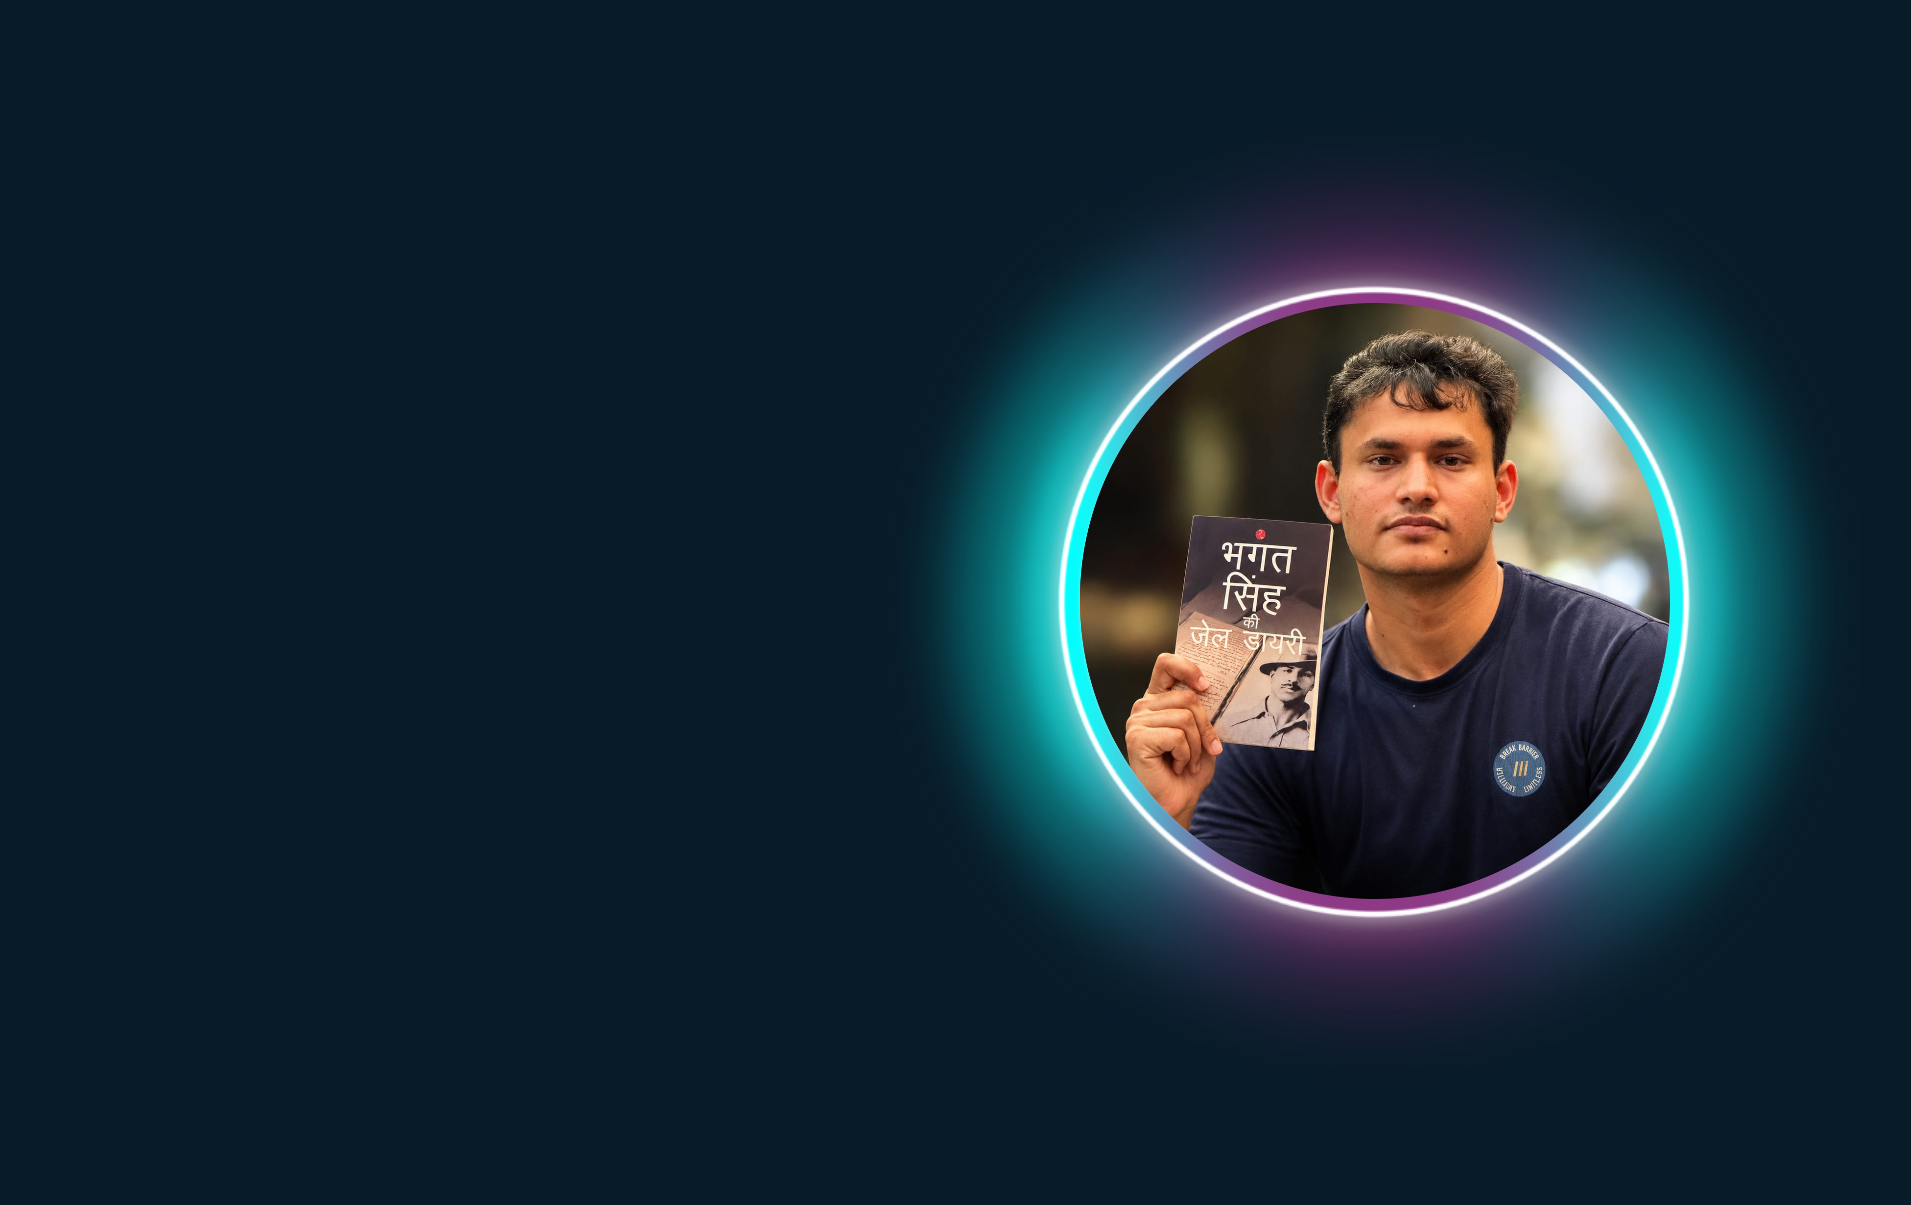
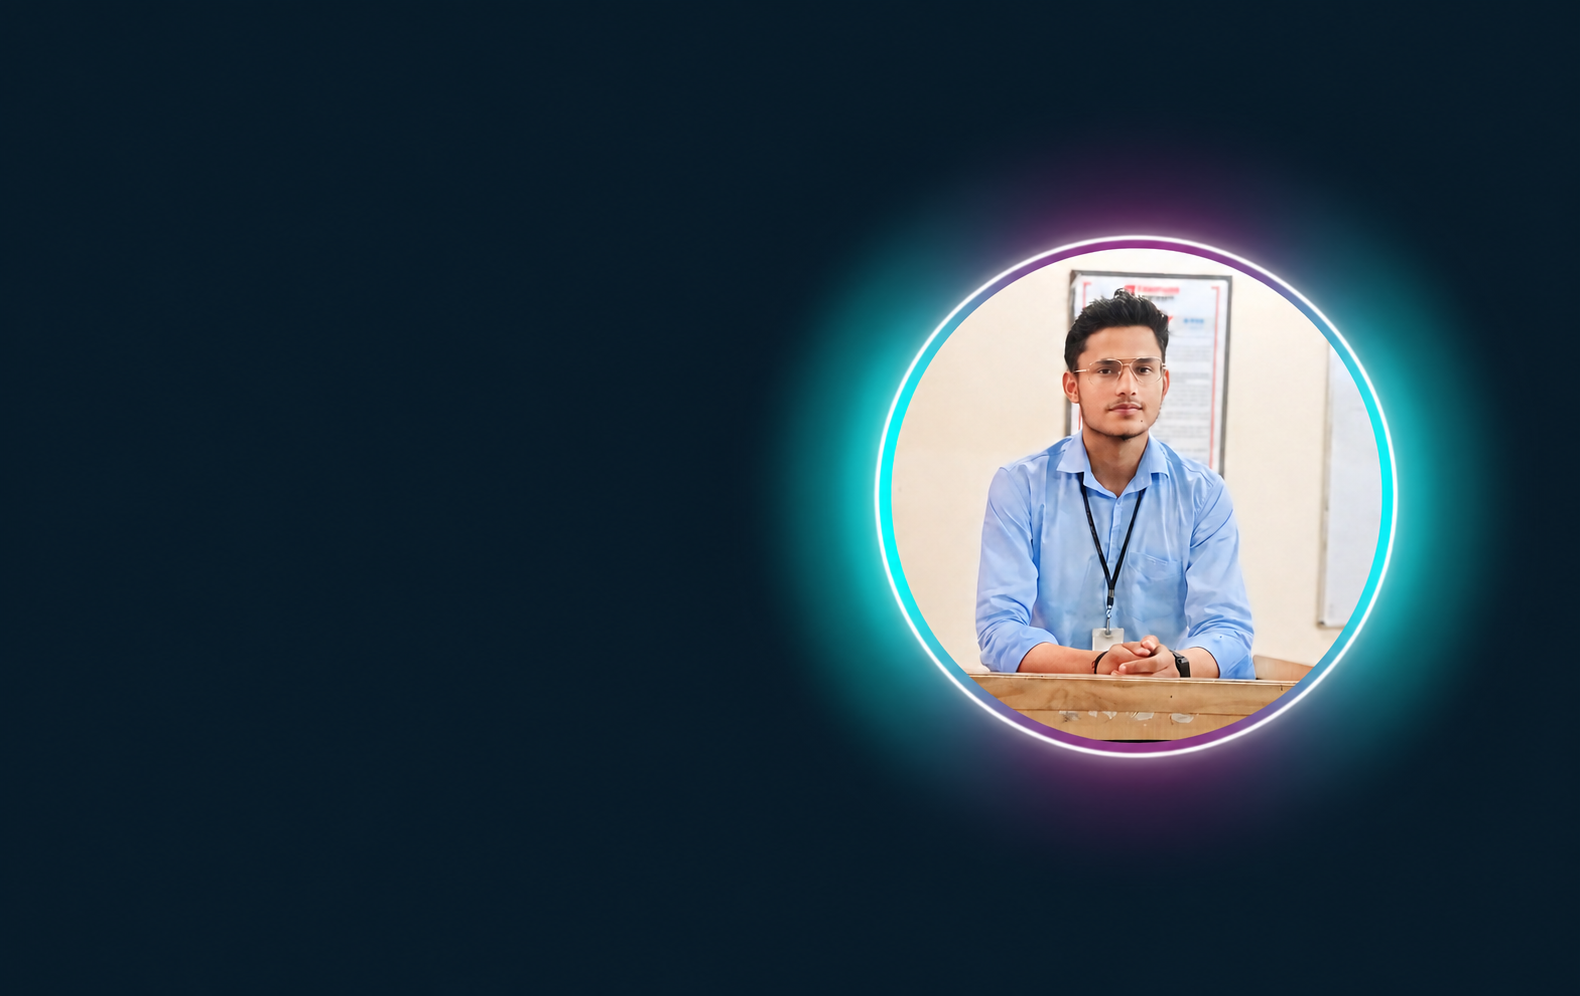
updated bg image

Changed region(s): [[0.5272, 0.2179, 0.8994, 0.747]]

diff --git a/index.html b/index.html
@@ -34,7 +34,7 @@
             <h3 style="color: #FF8C00;">Hello, It's Me</h3>
             <h1 style="color: #FFFFFF;">Deepak Singh</h1><h1 style="color: #00C853;">Sehrawat</h1>
             <h3>And I'm <span class="text"></span></h3>
-            <p>Welcome to my portfolio! I'm Arya Deepak Sehrawat, <br> a passionate software developer, problem solver, and explorer.
+            <p>Welcome to my portfolio! I'm Deepak Singh Sehrawat, <br> a passionate software developer, problem solver, and explorer.
                 <br>Explore my skills, projects, and achievements. <br> Let's create something amazing together!
             </p>
             <div class="home-sci">
